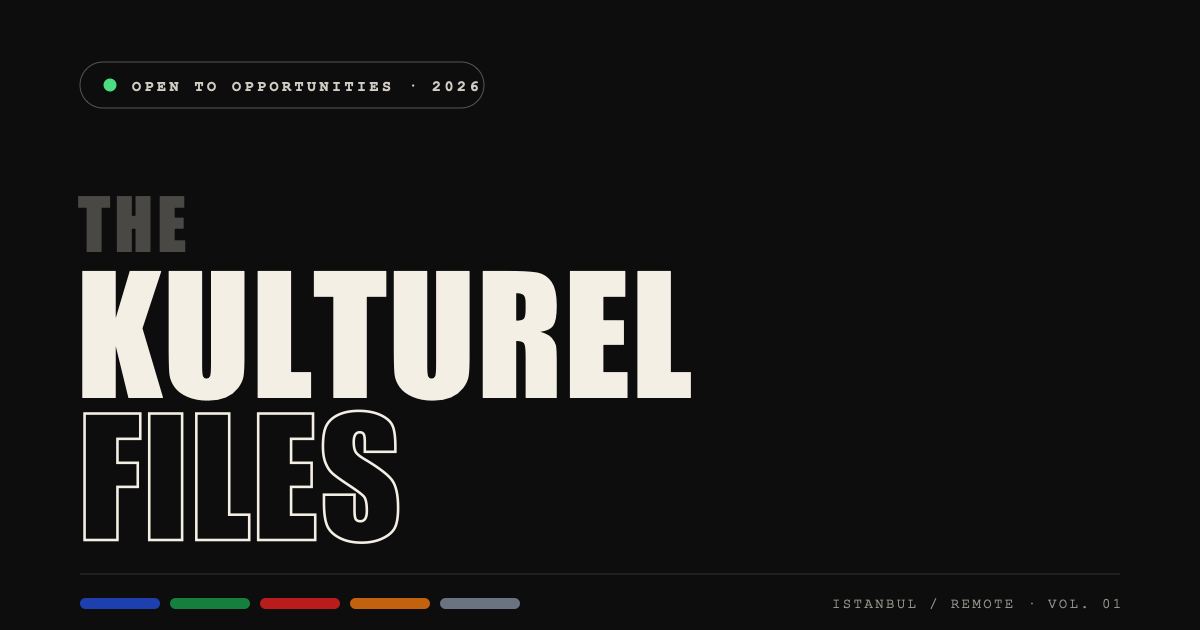
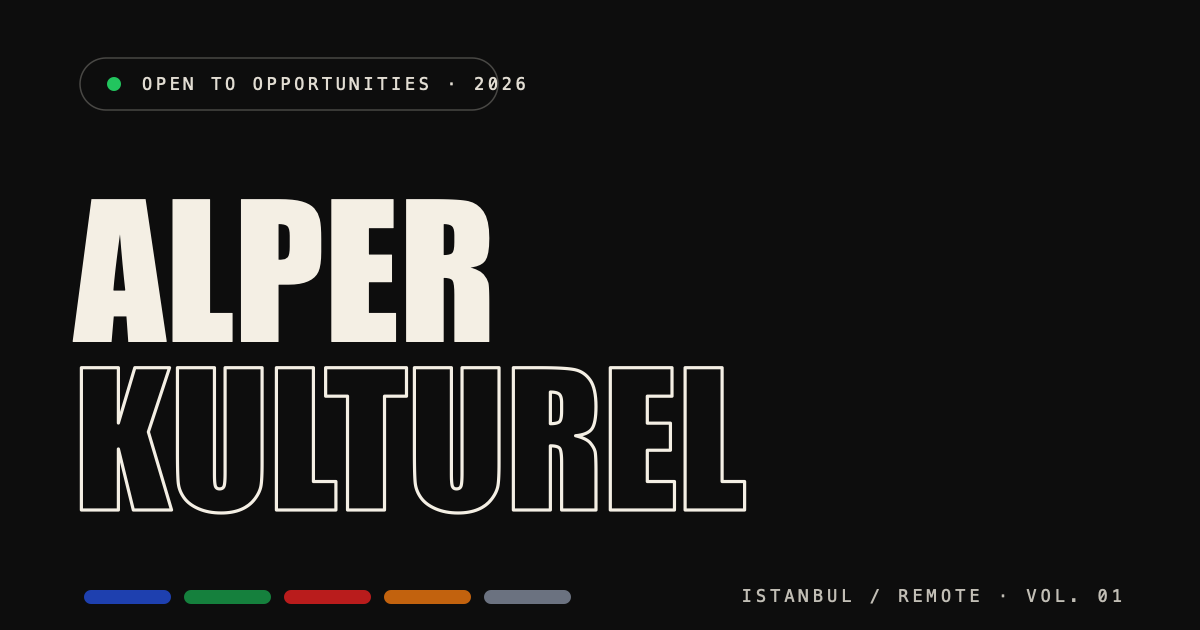
Rename site brand from "The Kulturel Files" to Alper Kulturel
Applies the new name everywhere it appeared:
- Hero H1 on the homepage, restacked as ALPER (solid) over
  KULTUREL (outlined) in place of the old three-line treatment
- <title>, og:site_name, og:title, twitter:title, og:image:alt
  across all six pages
- README heading, CSS/JS header comments, favicon aria-label

Rebuilds the social share card (assets/og.png), which still carried
the old three-line name. Adds assets/og.svg as a vector source with
regeneration instructions, so the card is no longer an uneditable
raster with no source.

diff --git a/index.html b/index.html
@@ -3,23 +3,23 @@
 <head>
 <meta charset="utf-8">
 <meta name="viewport" content="width=device-width, initial-scale=1">
-<title>Alper Kulturel — The Kulturel Files | Quant, Data &amp; Systems</title>
+<title>Alper Kulturel — Quant, Data &amp; Systems</title>
 <meta name="description" content="Alper Kulturel is a developer and analyst in Istanbul, open to relocation. An archive of quantitative finance tooling, data analytics, systems engineering and game development.">
 <meta name="author" content="Alper Kulturel">
 <meta name="theme-color" content="#0D0D0D">
 <link rel="canonical" href="https://alper-kulturel.github.io/">
 
 <meta property="og:type" content="website">
-<meta property="og:site_name" content="The Kulturel Files">
-<meta property="og:title" content="Alper Kulturel — The Kulturel Files">
+<meta property="og:site_name" content="Alper Kulturel">
+<meta property="og:title" content="Alper Kulturel">
 <meta property="og:description" content="An archive of systems, models, and experiments — built across quant, data, and code.">
 <meta property="og:url" content="https://alper-kulturel.github.io/">
 <meta property="og:image" content="https://alper-kulturel.github.io/assets/og.png">
 <meta property="og:image:width" content="1200">
 <meta property="og:image:height" content="630">
-<meta property="og:image:alt" content="The Kulturel Files — the portfolio archive of Alper Kulturel.">
+<meta property="og:image:alt" content="Alper Kulturel — the portfolio archive.">
 <meta name="twitter:card" content="summary_large_image">
-<meta name="twitter:title" content="Alper Kulturel — The Kulturel Files">
+<meta name="twitter:title" content="Alper Kulturel">
 <meta name="twitter:description" content="An archive of systems, models, and experiments — built across quant, data, and code.">
 <meta name="twitter:image" content="https://alper-kulturel.github.io/assets/og.png">
 
@@ -96,9 +96,8 @@
     </div>
 
     <h1 class="hero__title" id="hero-title">
-      <span class="hero__line hero__line--lead">The</span>
-      <span class="hero__line">Kulturel</span>
-      <span class="hero__line hero__line--outline">Files</span>
+      <span class="hero__line">Alper</span>
+      <span class="hero__line hero__line--outline">Kulturel</span>
     </h1>
 
     <p class="hero__sub" data-typewriter="An archive of systems, models, and experiments — built across quant, data, and code.">An archive of systems, models, and experiments — built across quant, data, and code.<span class="hero__caret" aria-hidden="true"></span></p>

diff --git a/systems.html b/systems.html
@@ -3,23 +3,23 @@
 <head>
 <meta charset="utf-8">
 <meta name="viewport" content="width=device-width, initial-scale=1">
-<title>Systems — The Kulturel Files | Alper Kulturel</title>
+<title>Systems — Alper Kulturel</title>
 <meta name="description" content="Four systems engineering projects by Alper Kulturel: a C++17 Black-Scholes pricer, a price-time priority order book, an ITCH feed handler with p50/p99 benchmarks, and a live crypto data pipeline.">
 <meta name="author" content="Alper Kulturel">
 <meta name="theme-color" content="#0D0D0D">
 <link rel="canonical" href="https://alper-kulturel.github.io/systems.html">
 
 <meta property="og:type" content="article">
-<meta property="og:site_name" content="The Kulturel Files">
-<meta property="og:title" content="Systems — The Kulturel Files">
+<meta property="og:site_name" content="Alper Kulturel">
+<meta property="og:title" content="Systems — Alper Kulturel">
 <meta property="og:description" content="What happens underneath — a C++ core bound to Python, binary protocols parsed at wire speed, and infrastructure that stays correct while the market is open.">
 <meta property="og:url" content="https://alper-kulturel.github.io/systems.html">
 <meta property="og:image" content="https://alper-kulturel.github.io/assets/og.png">
 <meta property="og:image:width" content="1200">
 <meta property="og:image:height" content="630">
-<meta property="og:image:alt" content="The Kulturel Files — the portfolio archive of Alper Kulturel.">
+<meta property="og:image:alt" content="Alper Kulturel — the portfolio archive.">
 <meta name="twitter:card" content="summary_large_image">
-<meta name="twitter:title" content="Systems — The Kulturel Files">
+<meta name="twitter:title" content="Systems — Alper Kulturel">
 <meta name="twitter:description" content="What happens underneath — a C++ core bound to Python, binary protocols parsed at wire speed, and infrastructure that stays correct while the market is open.">
 <meta name="twitter:image" content="https://alper-kulturel.github.io/assets/og.png">
 

diff --git a/game-dev.html b/game-dev.html
@@ -3,23 +3,23 @@
 <head>
 <meta charset="utf-8">
 <meta name="viewport" content="width=device-width, initial-scale=1">
-<title>Game Development — The Kulturel Files | Alper Kulturel</title>
+<title>Game Development — Alper Kulturel</title>
 <meta name="description" content="Alper Kulturel's game development record: live-service infrastructure at Nexon America, Unity Certified Associate: Game Developer, Microsoft Foundational C#, and Global Game Jam community work.">
 <meta name="author" content="Alper Kulturel">
 <meta name="theme-color" content="#0D0D0D">
 <link rel="canonical" href="https://alper-kulturel.github.io/game-dev.html">
 
 <meta property="og:type" content="article">
-<meta property="og:site_name" content="The Kulturel Files">
-<meta property="og:title" content="Game Development — The Kulturel Files">
+<meta property="og:site_name" content="Alper Kulturel">
+<meta property="og:title" content="Game Development — Alper Kulturel">
 <meta property="og:description" content="Where the building started — live-service infrastructure, Unity and C# certification, and time given back to the community.">
 <meta property="og:url" content="https://alper-kulturel.github.io/game-dev.html">
 <meta property="og:image" content="https://alper-kulturel.github.io/assets/og.png">
 <meta property="og:image:width" content="1200">
 <meta property="og:image:height" content="630">
-<meta property="og:image:alt" content="The Kulturel Files — the portfolio archive of Alper Kulturel.">
+<meta property="og:image:alt" content="Alper Kulturel — the portfolio archive.">
 <meta name="twitter:card" content="summary_large_image">
-<meta name="twitter:title" content="Game Development — The Kulturel Files">
+<meta name="twitter:title" content="Game Development — Alper Kulturel">
 <meta name="twitter:description" content="Where the building started — live-service infrastructure, Unity and C# certification, and time given back to the community.">
 <meta name="twitter:image" content="https://alper-kulturel.github.io/assets/og.png">
 

diff --git a/data.html b/data.html
@@ -3,23 +3,23 @@
 <head>
 <meta charset="utf-8">
 <meta name="viewport" content="width=device-width, initial-scale=1">
-<title>Data &amp; Analytics — The Kulturel Files | Alper Kulturel</title>
+<title>Data &amp; Analytics — Alper Kulturel</title>
 <meta name="description" content="Seven data and analytics projects by Alper Kulturel: credit risk scoring with XGBoost and SHAP, churn prediction, financial sentiment analysis, SQL ETL, FP&amp;A variance and sales dashboards.">
 <meta name="author" content="Alper Kulturel">
 <meta name="theme-color" content="#0D0D0D">
 <link rel="canonical" href="https://alper-kulturel.github.io/data.html">
 
 <meta property="og:type" content="article">
-<meta property="og:site_name" content="The Kulturel Files">
-<meta property="og:title" content="Data &amp; Analytics — The Kulturel Files">
+<meta property="og:site_name" content="Alper Kulturel">
+<meta property="og:title" content="Data &amp; Analytics — Alper Kulturel">
 <meta property="og:description" content="Turning raw records into decisions — seven pipelines, models, and dashboards with the reasoning left visible.">
 <meta property="og:url" content="https://alper-kulturel.github.io/data.html">
 <meta property="og:image" content="https://alper-kulturel.github.io/assets/og.png">
 <meta property="og:image:width" content="1200">
 <meta property="og:image:height" content="630">
-<meta property="og:image:alt" content="The Kulturel Files — the portfolio archive of Alper Kulturel.">
+<meta property="og:image:alt" content="Alper Kulturel — the portfolio archive.">
 <meta name="twitter:card" content="summary_large_image">
-<meta name="twitter:title" content="Data &amp; Analytics — The Kulturel Files">
+<meta name="twitter:title" content="Data &amp; Analytics — Alper Kulturel">
 <meta name="twitter:description" content="Turning raw records into decisions — seven pipelines, models, and dashboards with the reasoning left visible.">
 <meta name="twitter:image" content="https://alper-kulturel.github.io/assets/og.png">
 

diff --git a/about.html b/about.html
@@ -3,23 +3,23 @@
 <head>
 <meta charset="utf-8">
 <meta name="viewport" content="width=device-width, initial-scale=1">
-<title>About — The Kulturel Files | Alper Kulturel</title>
+<title>About — Alper Kulturel</title>
 <meta name="description" content="Alper Kulturel is a developer and analyst based in Istanbul, open to relocation. MSc International Management &amp; Information Systems, BA Business, and 20+ shipped projects across quant, data and systems.">
 <meta name="author" content="Alper Kulturel">
 <meta name="theme-color" content="#0D0D0D">
 <link rel="canonical" href="https://alper-kulturel.github.io/about.html">
 
 <meta property="og:type" content="profile">
-<meta property="og:site_name" content="The Kulturel Files">
-<meta property="og:title" content="About — The Kulturel Files">
+<meta property="og:site_name" content="Alper Kulturel">
+<meta property="og:title" content="About — Alper Kulturel">
 <meta property="og:description" content="A developer and analyst whose work sits at the intersection of business, information systems, and building things that ship.">
 <meta property="og:url" content="https://alper-kulturel.github.io/about.html">
 <meta property="og:image" content="https://alper-kulturel.github.io/assets/og.png">
 <meta property="og:image:width" content="1200">
 <meta property="og:image:height" content="630">
-<meta property="og:image:alt" content="The Kulturel Files — the portfolio archive of Alper Kulturel.">
+<meta property="og:image:alt" content="Alper Kulturel — the portfolio archive.">
 <meta name="twitter:card" content="summary_large_image">
-<meta name="twitter:title" content="About — The Kulturel Files">
+<meta name="twitter:title" content="About — Alper Kulturel">
 <meta name="twitter:description" content="A developer and analyst whose work sits at the intersection of business, information systems, and building things that ship.">
 <meta name="twitter:image" content="https://alper-kulturel.github.io/assets/og.png">
 

diff --git a/quant.html b/quant.html
@@ -3,23 +3,23 @@
 <head>
 <meta charset="utf-8">
 <meta name="viewport" content="width=device-width, initial-scale=1">
-<title>Quant — The Kulturel Files | Alper Kulturel</title>
+<title>Quant — Alper Kulturel</title>
 <meta name="description" content="Eight quantitative finance projects by Alper Kulturel: Black-Scholes pricing in C++17, a price-time priority order book, an ITCH feed handler, options pricing models, pairs trading and portfolio optimisation.">
 <meta name="author" content="Alper Kulturel">
 <meta name="theme-color" content="#0D0D0D">
 <link rel="canonical" href="https://alper-kulturel.github.io/quant.html">
 
 <meta property="og:type" content="article">
-<meta property="og:site_name" content="The Kulturel Files">
-<meta property="og:title" content="Quant — The Kulturel Files">
+<meta property="og:site_name" content="Alper Kulturel">
+<meta property="og:title" content="Quant — Alper Kulturel">
 <meta property="og:description" content="Pricing, matching, and the machinery of a quote — eight files on how a price is formed and how fast it can be proven.">
 <meta property="og:url" content="https://alper-kulturel.github.io/quant.html">
 <meta property="og:image" content="https://alper-kulturel.github.io/assets/og.png">
 <meta property="og:image:width" content="1200">
 <meta property="og:image:height" content="630">
-<meta property="og:image:alt" content="The Kulturel Files — the portfolio archive of Alper Kulturel.">
+<meta property="og:image:alt" content="Alper Kulturel — the portfolio archive.">
 <meta name="twitter:card" content="summary_large_image">
-<meta name="twitter:title" content="Quant — The Kulturel Files">
+<meta name="twitter:title" content="Quant — Alper Kulturel">
 <meta name="twitter:description" content="Pricing, matching, and the machinery of a quote — eight files on how a price is formed and how fast it can be proven.">
 <meta name="twitter:image" content="https://alper-kulturel.github.io/assets/og.png">
 

diff --git a/js/main.js b/js/main.js
@@ -1,5 +1,5 @@
 /* ==========================================================================
-   THE KULTUREL FILES — interactions
+   ALPER KULTUREL — interactions
    Custom double cursor · typewriter · reveal observers · flap entrance
    ========================================================================== */
 

diff --git a/css/style.css b/css/style.css
@@ -1,5 +1,5 @@
 /* ==========================================================================
-   THE KULTUREL FILES — Alper Kulturel
+   ALPER KULTUREL — portfolio
    Static portfolio. No frameworks, no build step.
    --------------------------------------------------------------------------
    00 tokens

diff --git a/README.md b/README.md
@@ -1,4 +1,4 @@
-# The Kulturel Files
+# Alper Kulturel
 
 Personal portfolio of **Alper Kulturel** — developer and analyst based in Istanbul, open to relocation.
 
